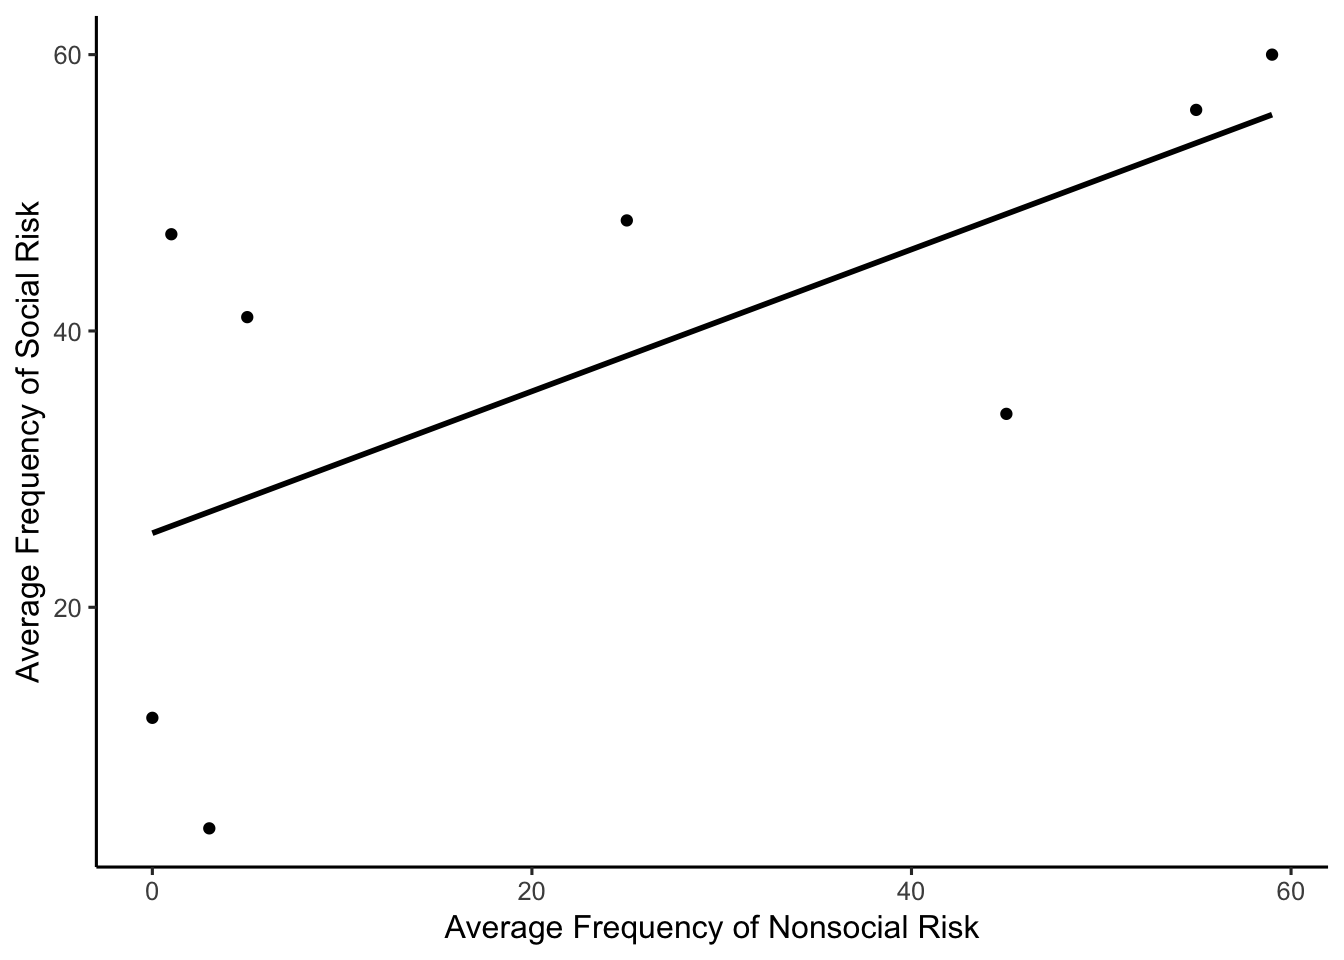
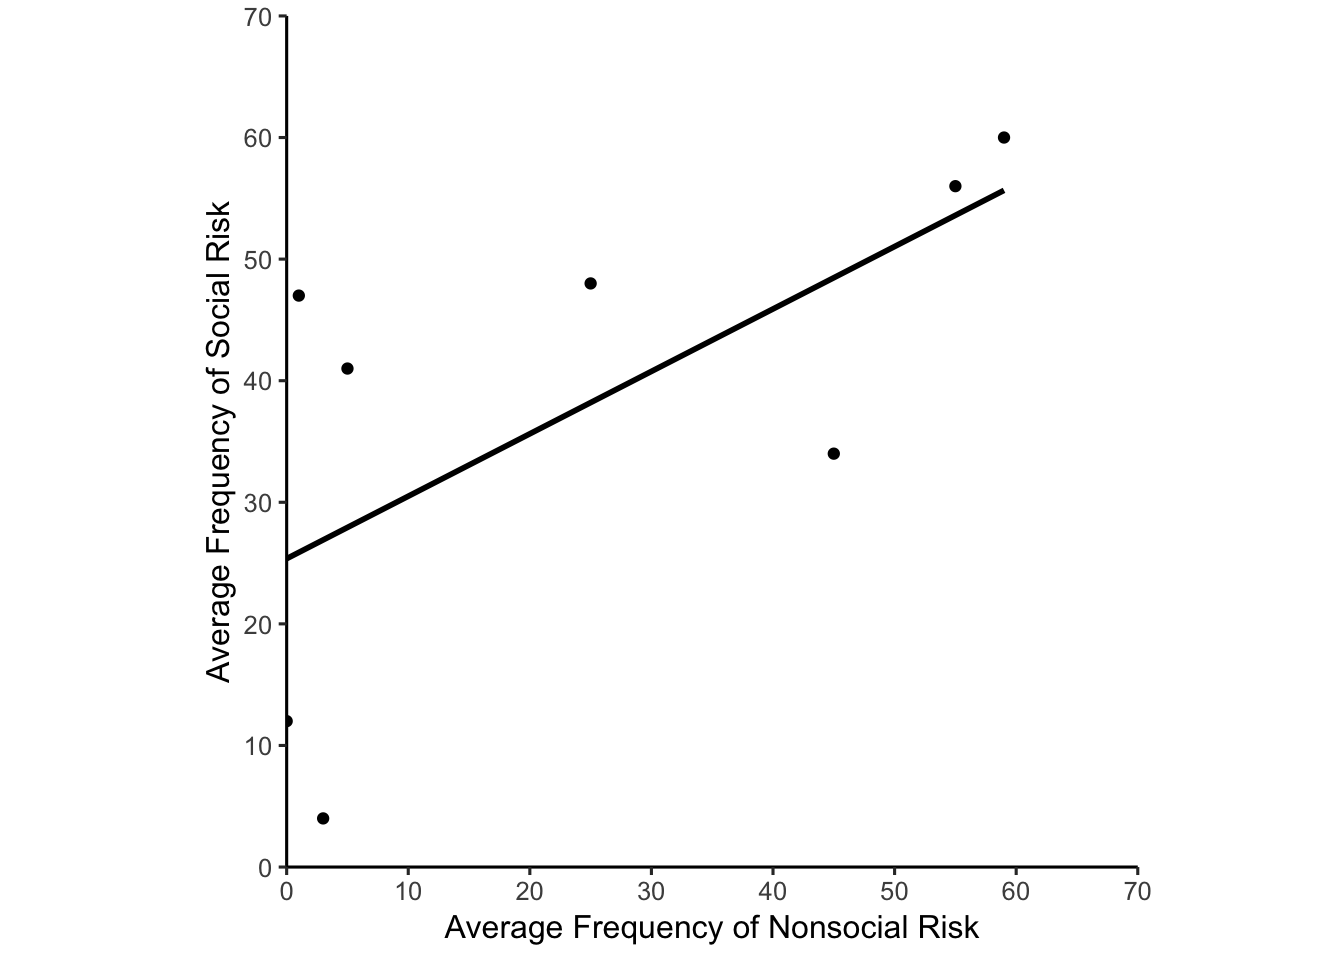
perefected q2

diff --git a/docs/DataVis.html b/docs/DataVis.html
@@ -443,8 +443,15 @@ library(ggplot2)
 ggplot(soc_df, aes(x=nonsoc_risk, y=soc_risk))+
   geom_point()+
   geom_smooth(method=lm, se = FALSE, color=&quot;black&quot;)+
+  scale_x_continuous(breaks=c(0,10,20,30,40,50,60,70),
+                     limits=c(0,70),
+                     expand = c(0, 0))+
+  scale_y_continuous(breaks=c(0,10,20,30,40,50,60,70),
+                     limits=c(0,70),
+                     expand = c(0, 0))+
   theme_classic(base_size=12)+
-  labs(x=&quot;Average Frequency of Nonsocial Risk&quot;, y=&quot;Average Frequency of Social Risk&quot;)</code></pre>
+  labs(x=&quot;Average Frequency of Nonsocial Risk&quot;, y=&quot;Average Frequency of Social Risk&quot;)+
+  coord_fixed(ratio=1)</code></pre>
 <p><img src="DataVis_files/figure-html/unnamed-chunk-3-1.png" width="672" /></p>
 <p><img src="datavis_figs/Cao1A.png" width="400px" /></p>
 <pre class="r"><code>person &lt;- rep(c(&quot;Doctor&quot;,&quot;Butcher&quot;,&quot;Firefighter&quot;,&quot;Construction Worker&quot;),each=3)
